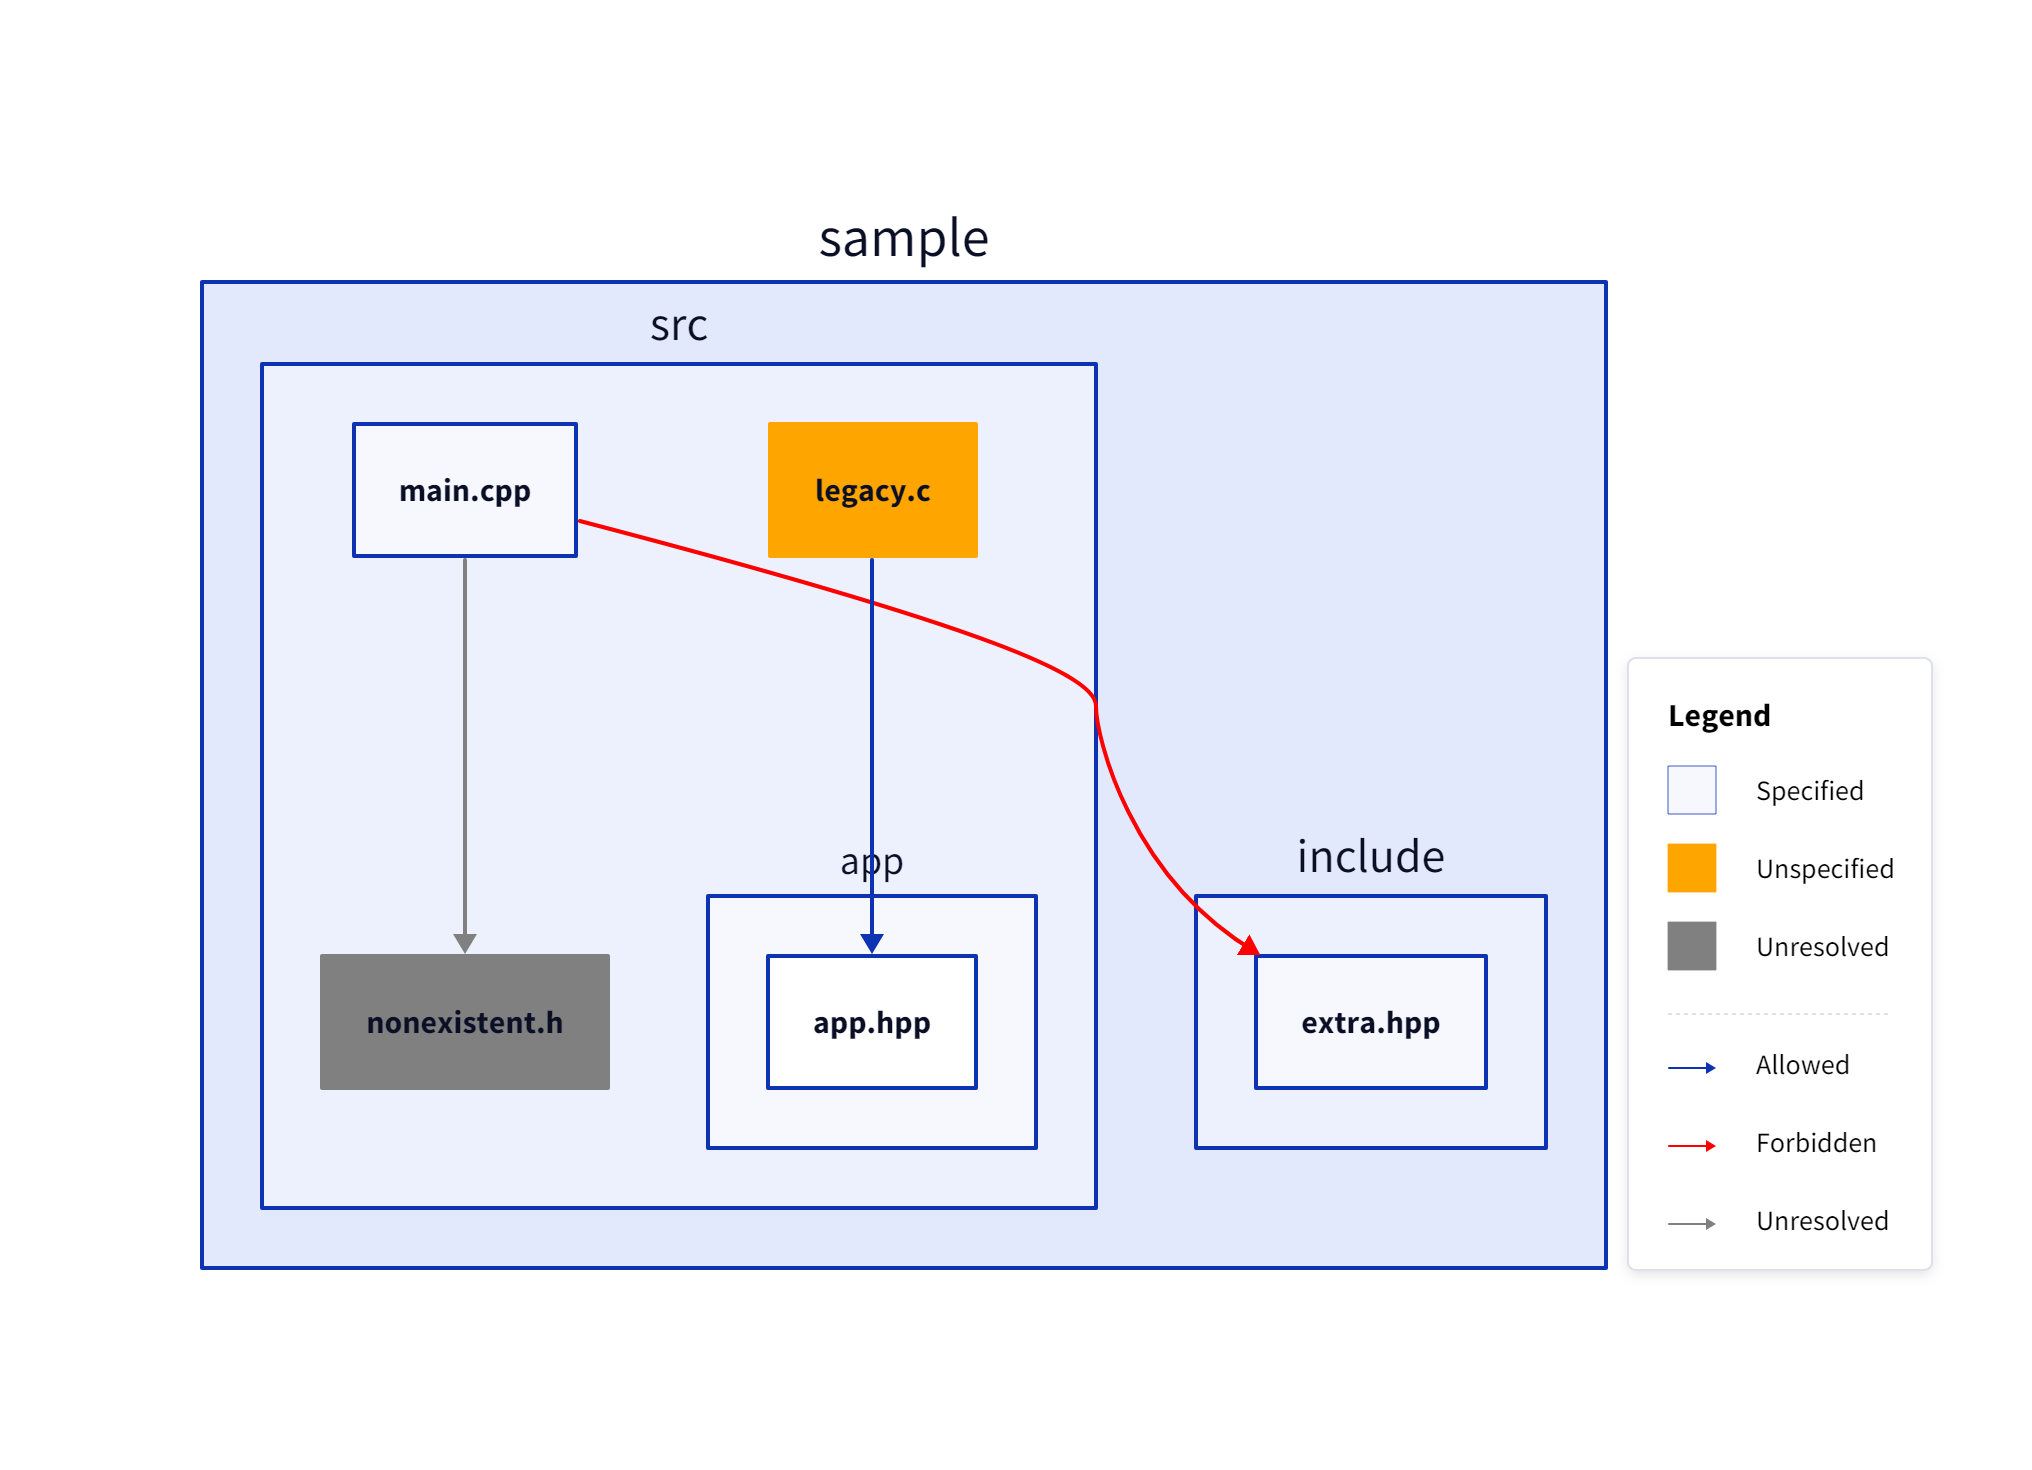
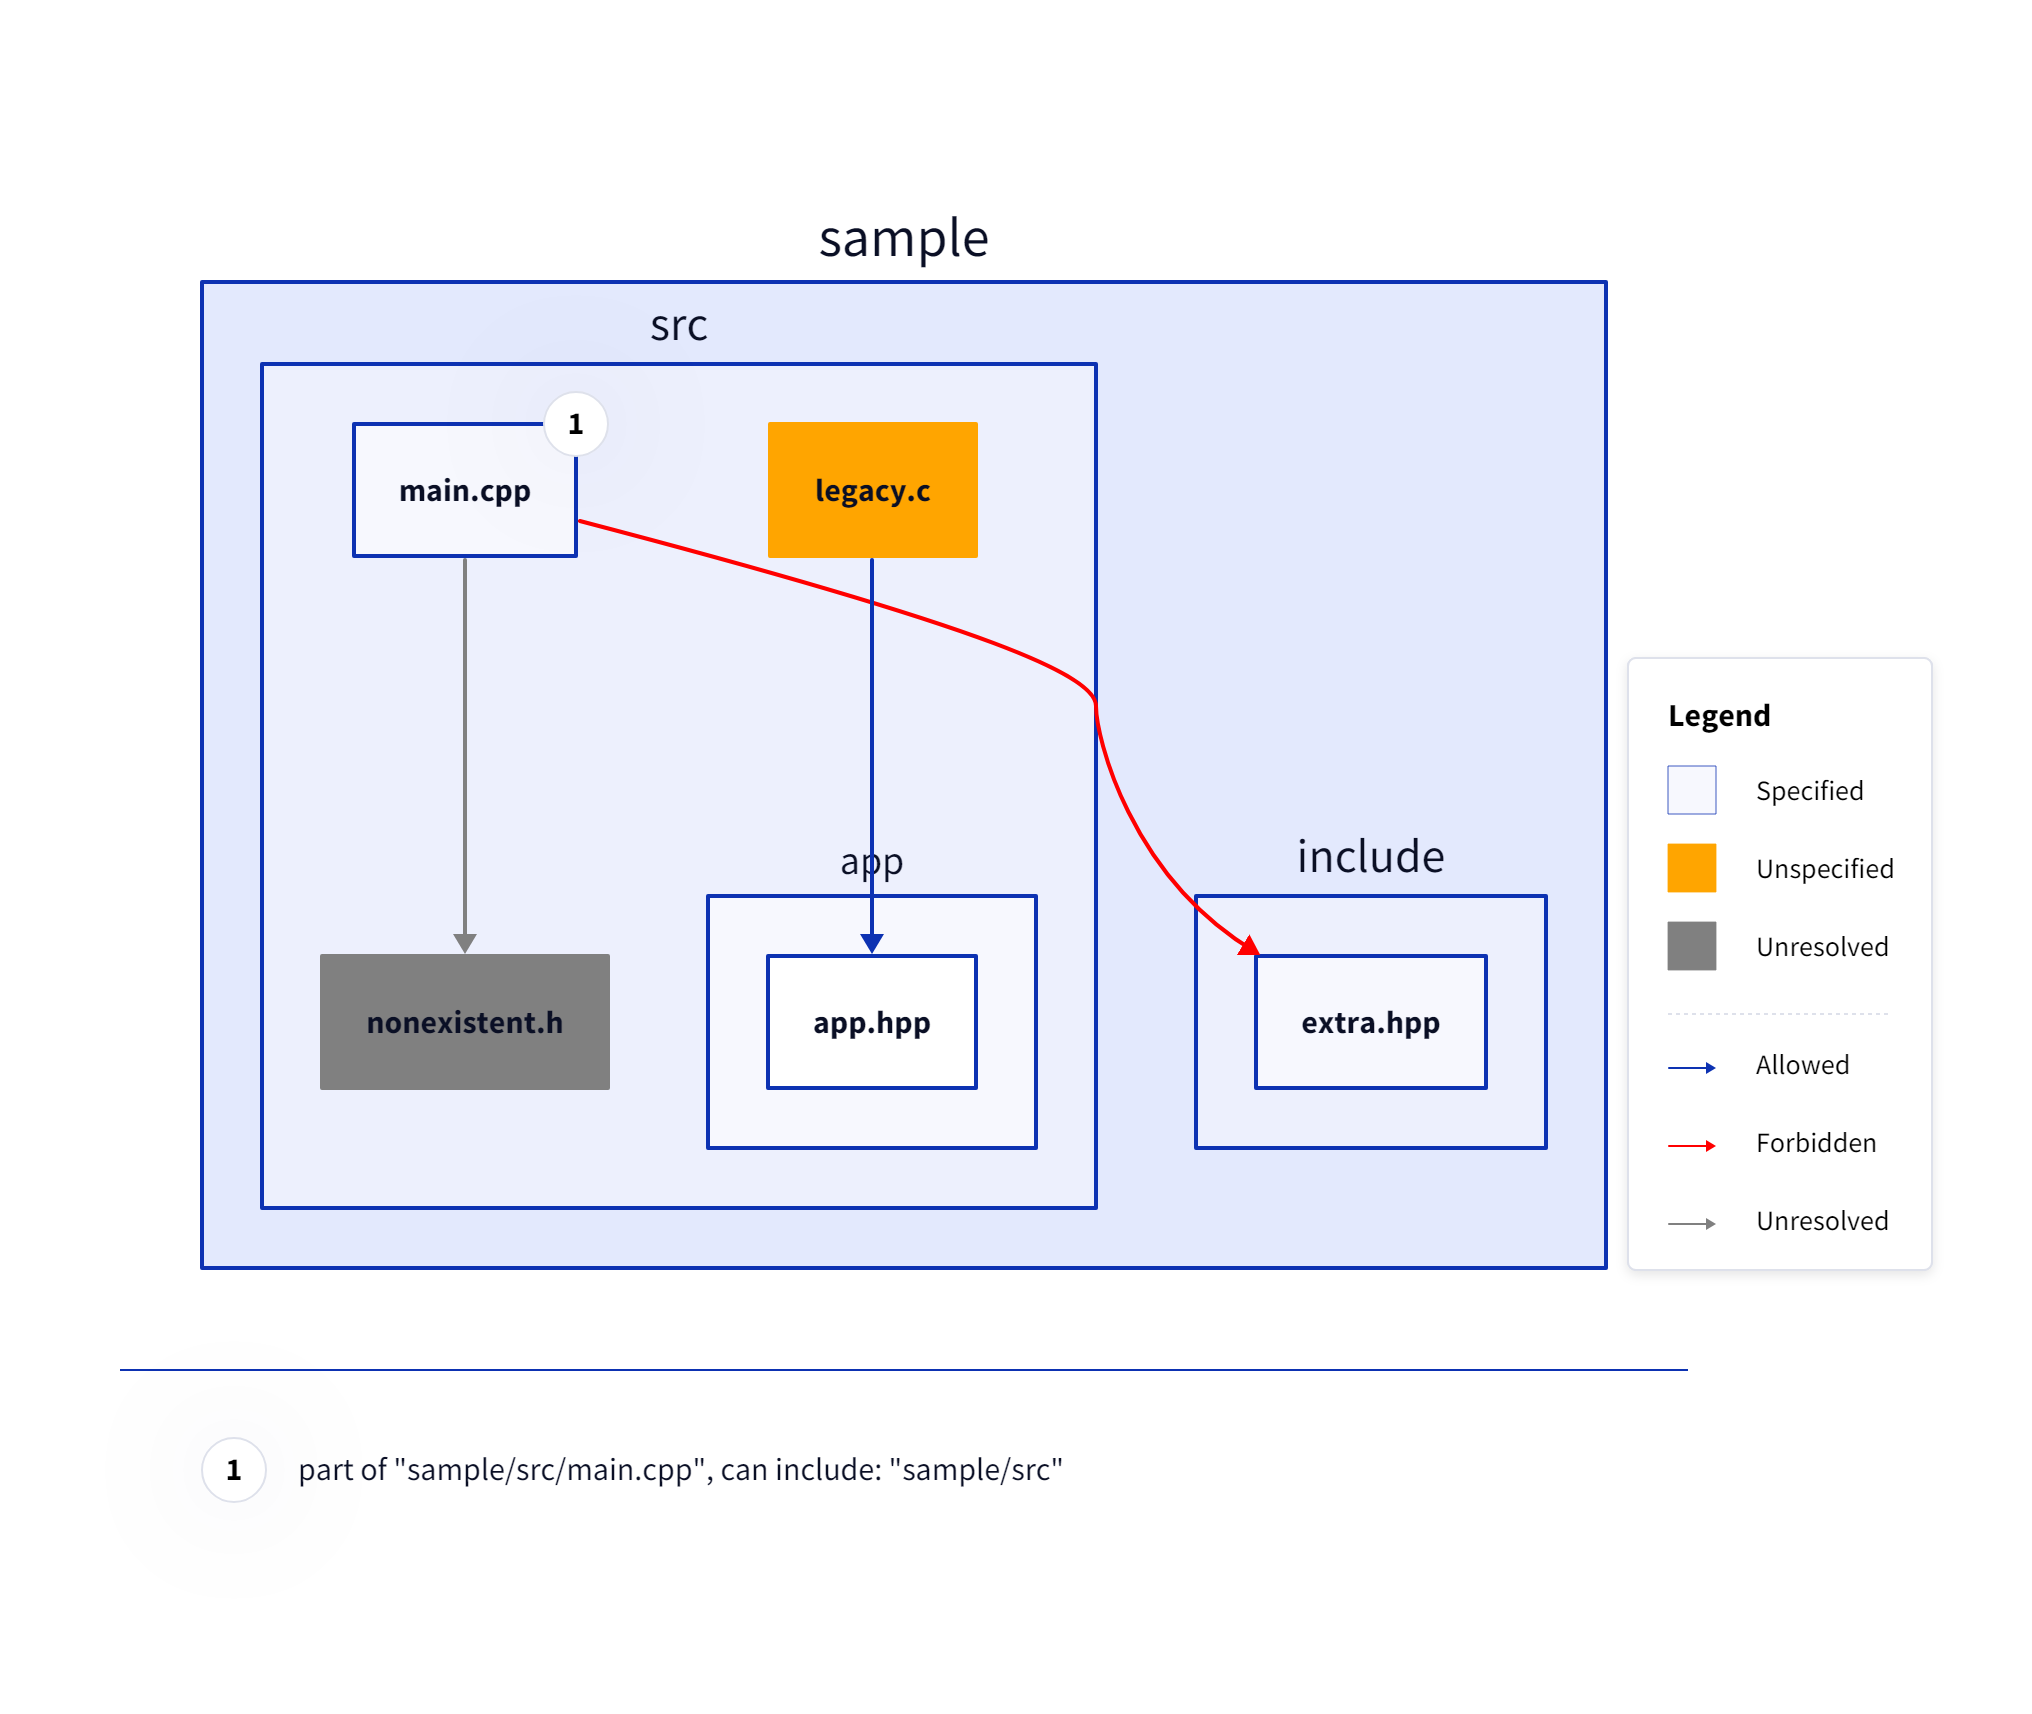
display allowance

diff --git a/src/main.cpp b/src/main.cpp
@@ -54,8 +54,12 @@ template <> OStreamAdapter toJsonOutput<Output>(const std::string& indent, const
 		{
 			using namespace utils::json;
 
-			auto members = {std::make_pair("specifiedIncludeMap", &value.specifiedIncludesMap),
-				{"unspecifiedIncludeMap", &value.unspecifiedIncludesMap}};
+			auto members = {
+				// std::make_pair("commandLine", &value.commandLine), // TODO: add commandLine to JSON output
+				std::make_pair("specifiedIncludeMap", &value.specifiedIncludesMap),
+				std::make_pair("unspecifiedIncludeMap", &value.unspecifiedIncludesMap),
+				// std::make_pair("allowedIncludesMap", &value.allowedIncludesMap), // TODO: add allowedIncludesMap to JSON output
+			};
 
 			os << toJsonObject(indent,
 				members,
@@ -104,6 +108,7 @@ template <> OStreamAdapter toD2Output<Output>(const Output& value)
 		{
 			const auto& specifiedIncludeMap = value.specifiedIncludesMap;
 			const auto& unspecifiedIncludeMap = value.unspecifiedIncludesMap;
+			const auto& allowedIncludesMap = value.allowedIncludesMap;
 			os << "#";
 			for (const auto& arg : value.commandLine) os << " " << arg;
 			os << R"(
@@ -154,7 +159,30 @@ vars: {
 			{
 				os << "\n# specified include list:\n";
 				os << "\n# files:\n";
-				for (const auto& [from, _] : specifiedIncludeMap) os << from << "\n";
+				for (const auto& [from, _] : specifiedIncludeMap)
+				{
+					os << from;
+					auto it = allowedIncludesMap.find(from);
+					if (it != allowedIncludesMap.end())
+					{
+						os << ": " << it->second.fileName << " {tooltip: part of \"" << it->second.from << "\", can include: ";
+						auto listIt = it->second.toList->begin();
+						auto listItEnd = it->second.toList->end();
+						if (listIt == listItEnd) os << "None";
+						else
+						{
+							os << "\"" << listIt->getPattern() << "\"";
+							++listIt;
+							while (listIt != listItEnd)
+							{
+								os << ", \"" << listIt->getPattern() << "\"";
+								++listIt;
+							}
+						}
+						os << "}";
+					}
+					os << "\n";
+				}
 				os << "\n# allowed:\n";
 				for (const auto& [from, include] : specifiedIncludeMap)
 					os << toD2Output(include, from, EDetectedIncludeStatus::Allowed);

diff --git a/src/Output.hpp b/src/Output.hpp
@@ -30,16 +30,25 @@ struct DetectedIncludes
 // same as DetectedIncludes, but since origin is unspecified, resolved includes are allowed
 using UnspecifiedDetectedIncludes = DetectedIncludes;
 
+struct AllowedIncludes
+{
+	std::string fileName;
+	std::string from;
+	const std::vector<Glob>* toList = nullptr;
+};
+
 struct Output
 {
 	Output(const Config& config, const ResolutionOutput& resolution, const SourceToHeaderMap& sourceToHeaderMap);
+
+	std::vector<std::string> commandLine;
 
 	// specified origin -> DetectedIncludes
 	std::map<std::string, DetectedIncludes> specifiedIncludesMap;
 	// unspecified origin -> UnspecifiedDetectedIncludes
 	std::map<std::string, UnspecifiedDetectedIncludes> unspecifiedIncludesMap;
-
-	std::vector<std::string> commandLine;
+	// origin with forbidden includes -> AllowedIncludes (origin's group and its allowed includes)
+	std::map<std::string, AllowedIncludes> allowedIncludesMap;
 
 	bool hasUnresolved = false;
 	bool hasForbidden = false;
@@ -98,6 +107,13 @@ inline Output::Output(const Config& config, const ResolutionOutput& resolution, 
 			auto& cppIncludes = this->getIncludes(true, sourceDottedPath);
 			const auto includeDottedPath = utils::file::pathToDotted(includePath);
 			cppIncludes.forbiddenSet.insert(includeDottedPath);
+			auto it = this->allowedIncludesMap.find(sourceDottedPath);
+			if (it == this->allowedIncludesMap.end())
+			{
+				this->allowedIncludesMap[sourceDottedPath] = AllowedIncludes{.fileName = sourcePath.filename().string(),
+					.from = config.getAllowedToGlob(sourcePath)->getPattern(),
+					.toList = config.getAllowedToList(sourcePath)};
+			}
 		}
 		for (const auto& includePath : detectedIncludes.unresolvedSet)
 		{

diff --git a/src/Config.hpp b/src/Config.hpp
@@ -43,6 +43,14 @@ struct Config
 		return nullptr;
 	}
 
+	[[nodiscard]] const Glob* getAllowedToGlob(const fs::path& cppPath) const
+	{
+		const auto segmentList = utils::file::toSegmentList(cppPath);
+		for (const auto& [from, index] : allowedIncludeIndexMap)
+			if (from.bMatch(segmentList)) return &from;
+		return nullptr;
+	}
+
 	bool parseArgs(size_t argc, char* argv[])
 	{
 		commandLine.assign(argv, argv + argc);

diff --git a/src/Glob.hpp b/src/Glob.hpp
@@ -12,7 +12,7 @@
 class Glob
 {
 public:
-	explicit Glob(const std::string& pattern)
+	explicit Glob(const std::string& pattern) : pattern(pattern)
 	{
 		size_t lastPos = 0;
 		for (size_t i = 0; i < pattern.size(); ++i)
@@ -46,6 +46,8 @@ public:
 		}
 		bSuffix |= pattern.back() != '*'; // make the match not exact if the last character is not '*'
 	}
+
+	[[nodiscard]] const std::string& getPattern() const { return pattern; }
 
 	[[nodiscard]] bool bMatch(const std::vector<std::string>& candidateSegments) const
 	{
@@ -166,6 +168,7 @@ private:
 		bool bSuffix = false;
 	};
 
+	std::string pattern;
 	std::vector<GlobSegment> prefixGlobSegmentList;
 	std::vector<GlobSegment> suffixGlobSegmentList;
 	std::vector<std::string> segmentList;

diff --git a/PLANNED_FEATURES.md b/PLANNED_FEATURES.md
@@ -2,24 +2,30 @@
 
 ### Allowed rules (`-A`, `--allowed`)
 
-- Change option usage to: `-A<from>=<to_1>,<to_2>,...`
 - Add support of `$folder` in `-A` / `--allowed` that corresponds to the folder of the source (useful when the source is defined with a glob)
 
-### Output formats
+### Forbidden behavior
 
-- Add option `-stdout=<format_1>,<format_2>,...` (supported formats: `d2`, `json`; default: `d2`)
-- Add option `-stderr` (same values as `-stdout`)
-- Maybe add output format `csv`
+- Add option `forceForbidden`, i.e. -A <from> !<to>
+
+### Text format error
+
+- Add option `-stderr`
+
+example:
+
+```
+3 errors:
+- unspecified file: 'sample/src/legacy.c'
+- unresolved include: 'sample/src/main.cpp' failed to include 'nonexistent.h'
+- forbidden includes: 'sample/src/main.cpp' cannot include 'sample/include/extra.hpp', it can only include 'sample/src'
+```
 
 ### Config file support
 
 - Add support for config files: `.config.json` and `.config.d2` (default config path is read automatically, but can be specified with `-c`, `--config`)
 - Note: command line arguments and config files are additive
 - Also support dumping the effective command line with `-o myCmd.config.json` (extension can be `.config.json` or `.config.d2`)
-
-### Forbidden behavior
-
-- Maybe add option `forceForbidden`, i.e. -A<from>=!<to>
 
 ### Command override
 